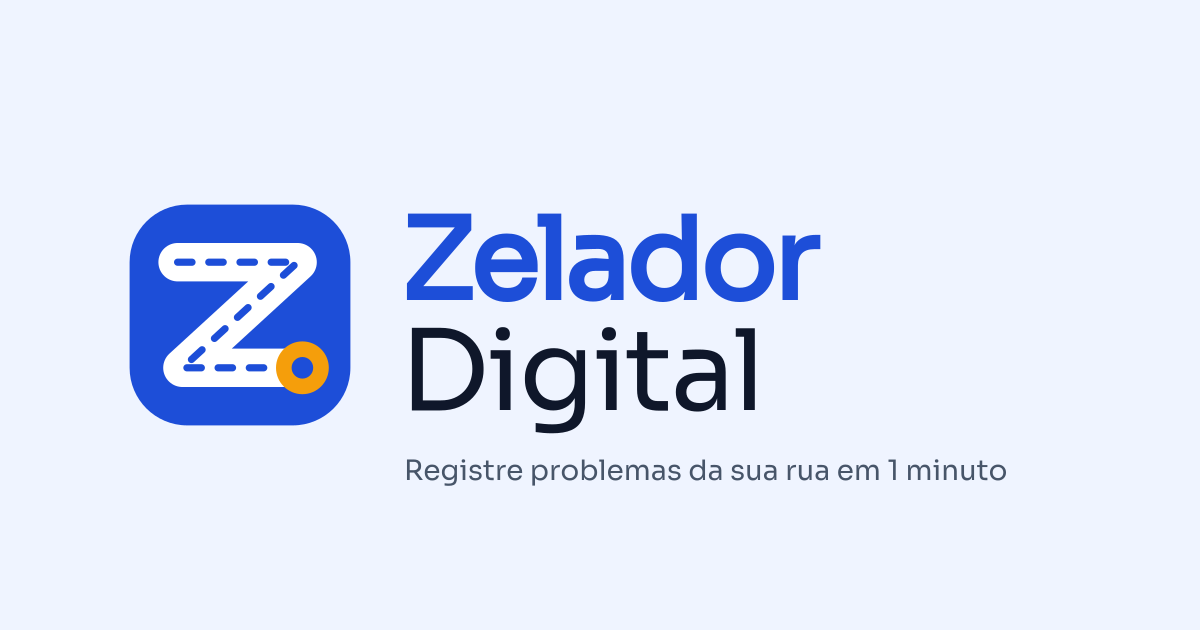
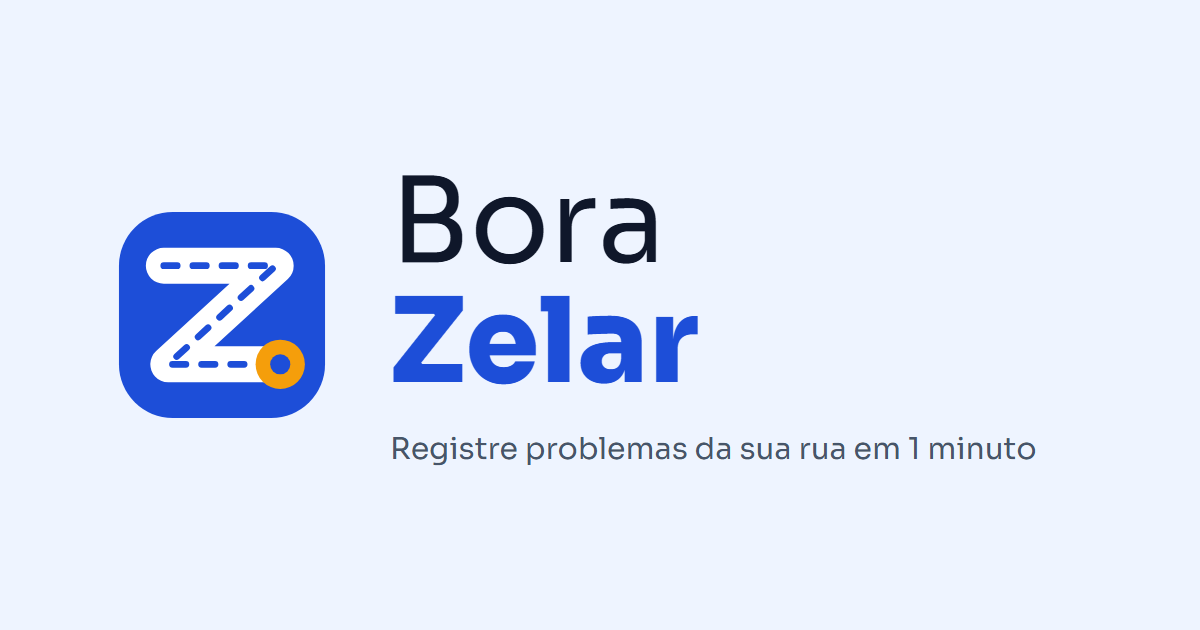
docs: README, CHANGELOG e imagem de compartilhamento com o nome Bora Zelar
README com o nome novo e as funções novas da gestão (órgãos, prazos,
ordem de serviço, relatório mensal, tela de computador) e a seção 'Para
prefeituras'. CHANGELOG atualizado. og-image.png refeita com o símbolo
e 'Bora Zelar'.

Changed region(s): [[0.0925, 0.2714, 0.8633, 0.7841]]

diff --git a/README.md b/README.md
@@ -1,8 +1,8 @@
 <div align="center">
 
-<img src="frontend/public/icon-192.png" alt="Ícone do Zelador Digital" width="96" height="96" />
+<img src="frontend/public/icon-192.png" alt="Ícone do Bora Zelar" width="96" height="96" />
 
-# Zelador Digital
+# Bora Zelar
 
 **Plataforma cívica para mapear, registrar e acompanhar problemas urbanos em Ananindeua (PA).**
 
@@ -42,6 +42,14 @@ O morador fotografa um buraco, um poste apagado, lixo acumulado ou um vazamento 
 - Painel com login (Supabase Auth), priorização **GUT** (Gravidade × Urgência × Tendência) e mapa de focos críticos.
 - Tramitação com despachos públicos e foto de resolução (antes/depois).
 - Ofício em A4 pronto para imprimir, boletim para WhatsApp e exportação **CSV** e **GeoJSON**.
+- **Encaminhamento por órgão** (iluminação, limpeza, saneamento, vias...): cada chamado vai sozinho para o órgão da categoria; gestor de um órgão só altera o que é dele e pode encaminhar para outro.
+- **Prazos por órgão** com aviso de atraso e filtro "Atrasados".
+- **Ordem de serviço** para a equipe de campo (A4 ou WhatsApp, com rota de cada ponto) e **relatório mensal** por órgão e bairro.
+- Tela de **computador** em duas colunas: lista à esquerda, mapa e detalhes à direita.
+
+**Para prefeituras**
+
+- Nome, cidade, prefeitura, centro do mapa e categorias configuráveis por variáveis de ambiente (veja `frontend/.env.example` e `frontend/src/lib/marca.js`), sem mexer no código.
 
 ## Tecnologias
 
@@ -146,11 +154,11 @@ Histórico de versões: [`CHANGELOG.md`](CHANGELOG.md).
 
 [GNU AGPL-3.0](LICENSE) © 2026 Dante Dias Monteiro. Veja também [`NOTICE`](NOTICE).
 
-Você pode usar, estudar, modificar e redistribuir o código. Quem oferecer o Zelador Digital (ou uma versão modificada) a outras pessoas pela internet, por exemplo como serviço para um órgão público, precisa publicar o código-fonte completo dessa versão sob a mesma licença.
+Você pode usar, estudar, modificar e redistribuir o código. Quem oferecer o Bora Zelar (ou uma versão modificada) a outras pessoas pela internet, por exemplo como serviço para um órgão público, precisa publicar o código-fonte completo dessa versão sob a mesma licença.
 
 As versões publicadas até a v1.1.0 e até o commit anterior a esta mudança (14/11/2026) continuam sob a licença MIT.
 
-O nome **Zelador Digital** e a identidade visual do projeto não são licenciados: não use a marca para oferecer cópias ou serviços derivados sem autorização.
+O nome **Bora Zelar** (antes Zelador Digital) e a identidade visual do projeto não são licenciados: não use a marca para oferecer cópias ou serviços derivados sem autorização.
 
 Projeto independente de iniciativa comunitária, sem vínculo com a Prefeitura de Ananindeua.
 

diff --git a/CHANGELOG.md b/CHANGELOG.md
@@ -4,7 +4,15 @@ Formato baseado em [Keep a Changelog](https://keepachangelog.com/pt-BR/1.1.0/). 
 
 ## [Não lançado]
 
+### Adicionado
+- Encaminhamento de chamados por órgão, com regra de acesso por órgão no banco.
+- Prazo de atendimento por órgão, aviso de atraso e filtro "Atrasados" no Painel de Gestão.
+- Ordem de serviço para a equipe de campo (A4 ou WhatsApp) e relatório mensal por órgão e bairro.
+- Painel de Gestão em duas colunas no computador.
+- Marca, cidade e categorias configuráveis por prefeitura (variáveis `VITE_MARCA_*` e `VITE_CATEGORIAS`).
+
 ### Alterado
+- Novo nome: **Bora Zelar** (antes Zelador Digital). O símbolo continua; o protocolo segue no formato ZD-XXXXXX.
 - Nova identidade visual "Rota": símbolo (Z feito de rua com o pino do problema), nome em dois pesos com a fonte Sora (embutida, funciona offline), ícones do app, favicon, imagem de compartilhamento e cartaz atualizados. Cor principal #1D4ED8 e detalhe #F59E0B.
 - Código reorganizado: o App.jsx caiu de ~2.450 para ~1.240 linhas, com telas em `src/telas/`, modais em `src/components/` e funções auxiliares em `src/lib/` (sem mudança de comportamento).
 
